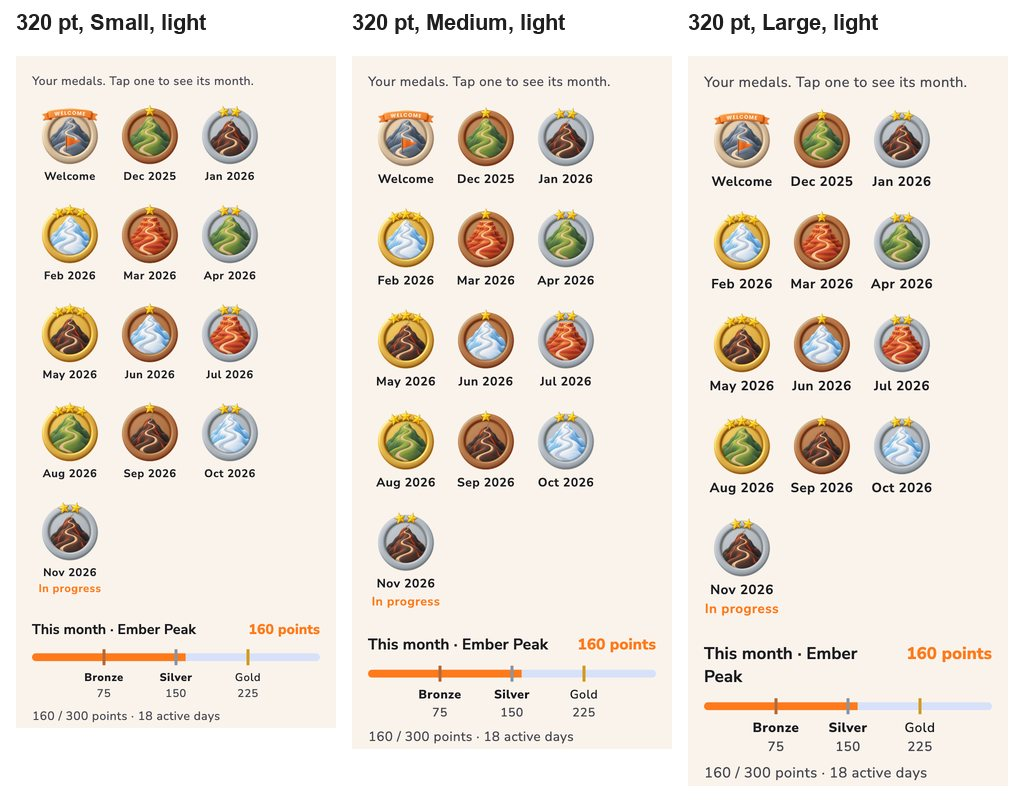
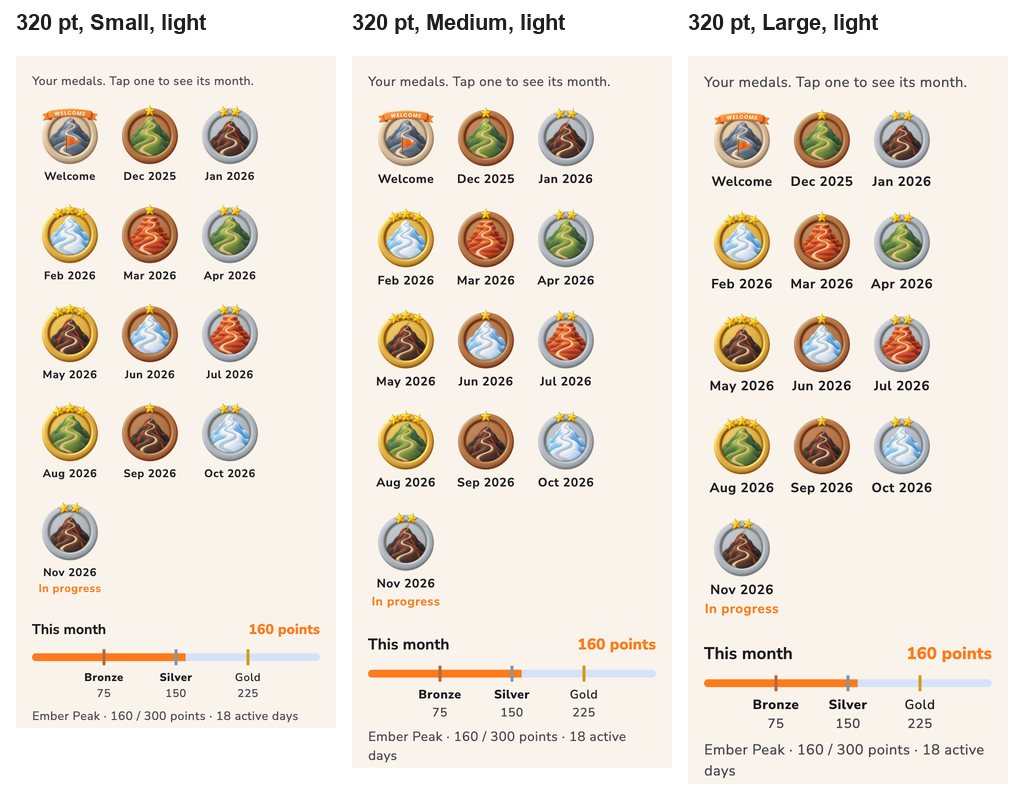
feat: Profile's "Medal collection" heading and the bar's "This month" label (N38)
The theme moves under the bar with the points. Adds an end-to-end test on
a real database: the running month's shelf medal is a faded Bronze, then
Bronze, Silver and Gold from the Daily Test save that crosses each
threshold, the next time Profile opens.

diff --git a/test/profile_medal_shelf_end_to_end_test.dart b/test/profile_medal_shelf_end_to_end_test.dart
@@ -1,0 +1,157 @@
+import 'dart:io';
+
+import 'package:flutter/material.dart';
+import 'package:flutter_test/flutter_test.dart';
+import 'package:path/path.dart';
+import 'package:sqflite_common_ffi/sqflite_ffi.dart';
+
+import 'package:grammar_lens/models/app_text_size.dart';
+import 'package:grammar_lens/models/app_theme_mode.dart';
+import 'package:grammar_lens/models/daily_test_question.dart';
+import 'package:grammar_lens/models/learning_goal.dart';
+import 'package:grammar_lens/models/medal_tier.dart';
+import 'package:grammar_lens/models/practice_item.dart';
+import 'package:grammar_lens/models/user_profile.dart';
+import 'package:grammar_lens/screens/settings_screen.dart';
+import 'package:grammar_lens/services/analytics_service.dart';
+import 'package:grammar_lens/services/monthly_medal_rules.dart';
+import 'package:grammar_lens/services/storage_service.dart';
+import 'package:grammar_lens/widgets/medal_badge.dart';
+import 'package:grammar_lens/widgets/monthly_medal_collection.dart';
+
+import 'support/recording_analytics_sink.dart';
+
+final _questions = [
+  for (var i = 0; i < 5; i++)
+    DailyTestQuestion(
+        item: PracticeItem(
+            id: 'q$i',
+            type: PracticeItemType.fillInBlank,
+            instruction: 'Question $i'),
+        topicId: 'tenseSelection',
+        correctAnswer: 'cooking',
+        commonWrongAnswers: const []),
+];
+
+/// Batch 5 (N34), end to end on a real database: the running month's
+/// medal on Profile's shelf is its theme's Bronze faded while it has no
+/// tier, and Bronze, Silver, then Gold from the Daily Test whose save
+/// crosses each threshold. Profile reads the medals each time its tab
+/// becomes active, so the change shows the first time Profile opens after
+/// that save.
+void main() {
+  setUpAll(() {
+    sqfliteFfiInit();
+    databaseFactory = databaseFactoryFfi;
+  });
+
+  late Directory dir;
+  late StorageService storage;
+  setUp(() async {
+    dir = await Directory.systemTemp.createTemp('profile-shelf-test-');
+    storage = StorageService(dbName: join(dir.path, 'app.db'));
+    // November 2026: 30 days, Ember Peak by the calendar.
+    StorageService.clockForTesting = () => DateTime(2026, 11, 30, 12);
+  });
+  tearDown(() async {
+    StorageService.clockForTesting = DateTime.now;
+    await dir.delete(recursive: true);
+  });
+
+  testWidgets(
+      "the running month's shelf medal: faded Bronze, then Bronze, Silver "
+      'and Gold from the save that crosses each threshold', (tester) async {
+    tester.view.physicalSize = const Size(390, 844) * 3;
+    tester.view.devicePixelRatio = 3;
+    addTearDown(tester.view.reset);
+
+    /// Saves day [day]'s Daily Test with every answer correct (10 points).
+    Future<void> saveDay(int day) => tester.runAsync(() async {
+          final key = '2026-11-${day.toString().padLeft(2, '0')}';
+          await storage.saveDailyTestSet(_questions, day: key);
+          // Returns whether the Welcome badge was just earned.
+          await storage.completeDailyTest(
+              {for (final q in _questions) q.item.id: 'cooking'}, const [],
+              day: key, completedAt: DateTime(2026, 11, day, 9));
+        });
+
+    final active = ValueNotifier(true);
+    addTearDown(active.dispose);
+    await tester.pumpWidget(MaterialApp(
+      home: ValueListenableBuilder<bool>(
+        valueListenable: active,
+        builder: (context, isActive, _) => SettingsScreen(
+          active: isActive,
+          themeMode: AppThemeMode.system,
+          onSelectThemeMode: (_) {},
+          textSize: AppTextSize.medium,
+          onSelectTextSize: (_) {},
+          profile: const UserProfile(
+              name: 'Ada', learningGoal: LearningGoal.general),
+          storageService: storage,
+          onProfileUpdated: (_) {},
+          analyticsService: AnalyticsService(sink: RecordingAnalyticsSink()),
+          onResetOnboarding: () {},
+        ),
+      ),
+    ));
+
+    Future<void> settle() async {
+      for (var i = 0; i < 10; i++) {
+        await tester.runAsync(
+            () => Future<void>.delayed(const Duration(milliseconds: 20)));
+        await tester.pump(const Duration(milliseconds: 50));
+      }
+    }
+
+    /// Leaves Profile's tab and comes back to it, as after a Daily Test.
+    Future<void> reopenProfile() async {
+      active.value = false;
+      await tester.pump();
+      active.value = true;
+      await settle();
+    }
+
+    MedalBadge shelfMedal() {
+      final slot = find.byKey(MonthlyMedalCollection.slotKey(2026, 11));
+      expect(slot, findsOneWidget);
+      return tester.widget<MedalBadge>(
+          find.descendant(of: slot, matching: find.byType(MedalBadge)));
+    }
+
+    void expectMedal(MedalTier tier, {required bool earned, String? why}) {
+      final badge = shelfMedal();
+      expect(badge.asset, MedalArt.monthly('ember_peak', tier), reason: why);
+      expect(badge.earned, earned, reason: why);
+    }
+
+    await settle();
+    expectMedal(MedalTier.bronze, earned: false, why: 'no test yet');
+
+    var day = 0;
+    for (final tier in MedalTier.values) {
+      final threshold = MonthlyMedalRules.threshold(2026, 11, tier);
+      // Up to the save before the threshold: still the tier below.
+      while ((day + 1) * 10 < threshold) {
+        await saveDay(++day);
+      }
+      await reopenProfile();
+      if (tier == MedalTier.bronze) {
+        expectMedal(MedalTier.bronze,
+            earned: false, why: '${day * 10} points, under Bronze');
+      } else {
+        expectMedal(MedalTier.values[tier.index - 1],
+            earned: true, why: '${day * 10} points, under ${tier.label}');
+      }
+      // The save that crosses it.
+      await saveDay(++day);
+      await reopenProfile();
+      expectMedal(tier, earned: true, why: '${day * 10} points');
+      expect(
+          find.bySemanticsLabel(RegExp(
+              '^November 2026, Ember Peak, ${tier.label} medal, in progress')),
+          findsOneWidget);
+    }
+    expect(day, 23); // 230 points: Gold at 225.
+  });
+}

diff --git a/test/settings_screen_test.dart b/test/settings_screen_test.dart
@@ -254,12 +254,12 @@ void main() {
       'locked Welcome badge', (tester) async {
     await pumpSettings(tester);
     await tester.scrollUntilVisible(
-      find.text('Monthly medals'),
+      find.text('Medal collection'),
       300,
       scrollable: find.byType(Scrollable).first,
     );
 
-    expect(find.text('Monthly medals'), findsOneWidget);
+    expect(find.text('Medal collection'), findsOneWidget);
     // Batch 5 (N34): nothing earned yet; the shelf holds the faded Welcome
     // badge and the running month.
     expect(
@@ -318,7 +318,8 @@ void main() {
     storage.resultsCompleters[0].complete(const []);
     await tester.pump();
     await tester.pump();
-    expect(find.text('10 / 300 points · 0 active days'), findsOneWidget);
+    expect(find.textContaining(' · 10 / 300 points · 0 active days'),
+        findsOneWidget);
 
     // Tab re-entry #1 (`false` -> `true`, the only transition that
     // triggers another load per `didUpdateWidget`): the older of the two
@@ -338,7 +339,8 @@ void main() {
     storage.resultsCompleters[2].complete(const []);
     await tester.pump();
     await tester.pump();
-    expect(find.text('90 / 300 points · 0 active days'), findsOneWidget);
+    expect(find.textContaining(' · 90 / 300 points · 0 active days'),
+        findsOneWidget);
 
     // ...then the older, now-stale read (#1) resolves after it. Without
     // the generation token, this stale result would win simply by
@@ -349,12 +351,12 @@ void main() {
     await tester.pump();
 
     expect(
-      find.text('90 / 300 points · 0 active days'),
+      find.textContaining(' · 90 / 300 points · 0 active days'),
       findsOneWidget,
       reason: 'the more-recently-started read must still win',
     );
     expect(
-      find.text('40 / 300 points · 0 active days'),
+      find.textContaining(' · 40 / 300 points · 0 active days'),
       findsNothing,
       reason: 'a stale read finishing later must not overwrite a newer one',
     );
@@ -483,7 +485,7 @@ void main() {
     final ordered = [
       top(find.text('Change avatar')),
       top(find.text('Name')),
-      top(find.text('Monthly medals')),
+      top(find.text('Medal collection')),
       top(find.text('Appearance')),
       top(find.text('Data')),
       top(find.text('Credits')),

diff --git a/lib/widgets/monthly_medal_collection.dart b/lib/widgets/monthly_medal_collection.dart
@@ -16,9 +16,10 @@ import 'medal_tier_color.dart';
 /// shelf. Tapping a medal brings it forward, larger, with its month, theme,
 /// tier, steps and points; a tap anywhere closes it ([showMedalDetail]).
 ///
-/// Under the shelf, the running month's bar (N33, [MedalProgressBar]):
-/// each tier's threshold written under its mark and the current score, all
-/// from `MonthlyMedalRules`.
+/// Under the shelf, the running month's bar (N33, [MedalProgressBar]),
+/// labelled "This month" (N38): each tier's threshold written under its
+/// mark and the current score, all from `MonthlyMedalRules`. Profile heads
+/// the section "Medal collection" (N38).
 class MonthlyMedalCollection extends StatelessWidget {
   /// A separate, one-time achievement — not a fourth tier
   /// (docs/prd-gamification.md §M6.5): first on the shelf, faded until
@@ -378,6 +379,11 @@ class MedalProgressBar extends StatelessWidget {
       {super.key, required this.progress, required this.theme});
 
   static const barKey = ValueKey('medal_progress_bar');
+
+  /// N38: the bar's label: it belongs to the running month, the shelf
+  /// above it to every month.
+  static const thisMonth = 'This month';
+  static const thisMonthKey = ValueKey('medal_progress_this_month');
   static ValueKey<String> thresholdKey(MedalTier tier) =>
       ValueKey('medal_threshold_${tier.name}');
   static const scoreKey = ValueKey('medal_progress_score');
@@ -414,7 +420,8 @@ class MedalProgressBar extends StatelessWidget {
             textBaseline: TextBaseline.alphabetic,
             children: [
               Expanded(
-                child: Text('This month · ${theme.name}',
+                child: Text(thisMonth,
+                    key: thisMonthKey,
                     style: t.textTheme.titleSmall
                         ?.copyWith(fontWeight: FontWeight.w700)),
               ),
@@ -483,7 +490,7 @@ class MedalProgressBar extends StatelessWidget {
         }),
         const SizedBox(height: 6),
         Text(
-          '${progress.score} / $max points · '
+          '${theme.name} · ${progress.score} / $max points · '
           '${progress.activeDays} active days',
           style:
               t.textTheme.bodySmall?.copyWith(color: scheme.onSurfaceVariant),

diff --git a/test/monthly_medal_collection_test.dart b/test/monthly_medal_collection_test.dart
@@ -316,6 +316,26 @@ void main() {
     }
   });
 
+  testWidgets(
+      'N38: "This month" labels the bar, under the shelf; the theme with '
+      'the points under the bar', (tester) async {
+    await pumpCollection(tester,
+        width: 375,
+        welcomeBadge: welcomeBadgeFixture,
+        currentProgress: november(score: 80),
+        results: [goldOctober],
+        themeIds: storedThemes);
+    final label = find.byKey(MedalProgressBar.thisMonthKey);
+    expect(tester.widget<Text>(label).data, 'This month');
+    final shelfBottom =
+        tester.getRect(find.byKey(MonthlyMedalCollection.slotKey(2026, 11)));
+    final bar = tester.getRect(find.byType(LinearProgressIndicator));
+    expect(tester.getRect(label).top, greaterThan(shelfBottom.bottom));
+    expect(tester.getRect(label).bottom, lessThan(bar.top));
+    expect(find.text('Ember Peak · 80 / 300 points · 6 active days'),
+        findsOneWidget);
+  });
+
   test('themeFor: stored, else the calendar (running) or Green Slope', () {
     expect(
         MonthlyMedalCollection.themeFor(2027, 1, {(2027, 1): 'glacier_peak'}),

diff --git a/lib/screens/settings_screen.dart b/lib/screens/settings_screen.dart
@@ -398,7 +398,7 @@ class _SettingsScreenState extends State<SettingsScreen> {
             ),
           ),
           const SizedBox(height: 32),
-          const _SectionLabel('Monthly medals'),
+          const _SectionLabel('Medal collection'),
           const SizedBox(height: 8),
           if (_medalsLoading)
             const Center(child: CircularProgressIndicator())
@@ -631,8 +631,7 @@ class _SettingsScreenState extends State<SettingsScreen> {
               label: 'Debug',
               onTap: () => Navigator.of(context).push(MaterialPageRoute(
                 builder: (_) => DebugPanelScreen(
-                    onResetLocalData:
-                        widget.onResetLocalData ?? () async {}),
+                    onResetLocalData: widget.onResetLocalData ?? () async {}),
               )),
             ),
           ],

diff --git a/lib/preview/monthly_medal_preview.dart b/lib/preview/monthly_medal_preview.dart
@@ -343,7 +343,7 @@ class _MonthlyMedalPreviewState extends State<MonthlyMedalPreview> {
               onChanged: (value) => setState(() => _welcomeEarned = value),
             ),
             const SizedBox(height: Spacing.xl),
-            Text('Monthly medals',
+            Text('Medal collection',
                 style: Theme.of(context)
                     .textTheme
                     .titleSmall
